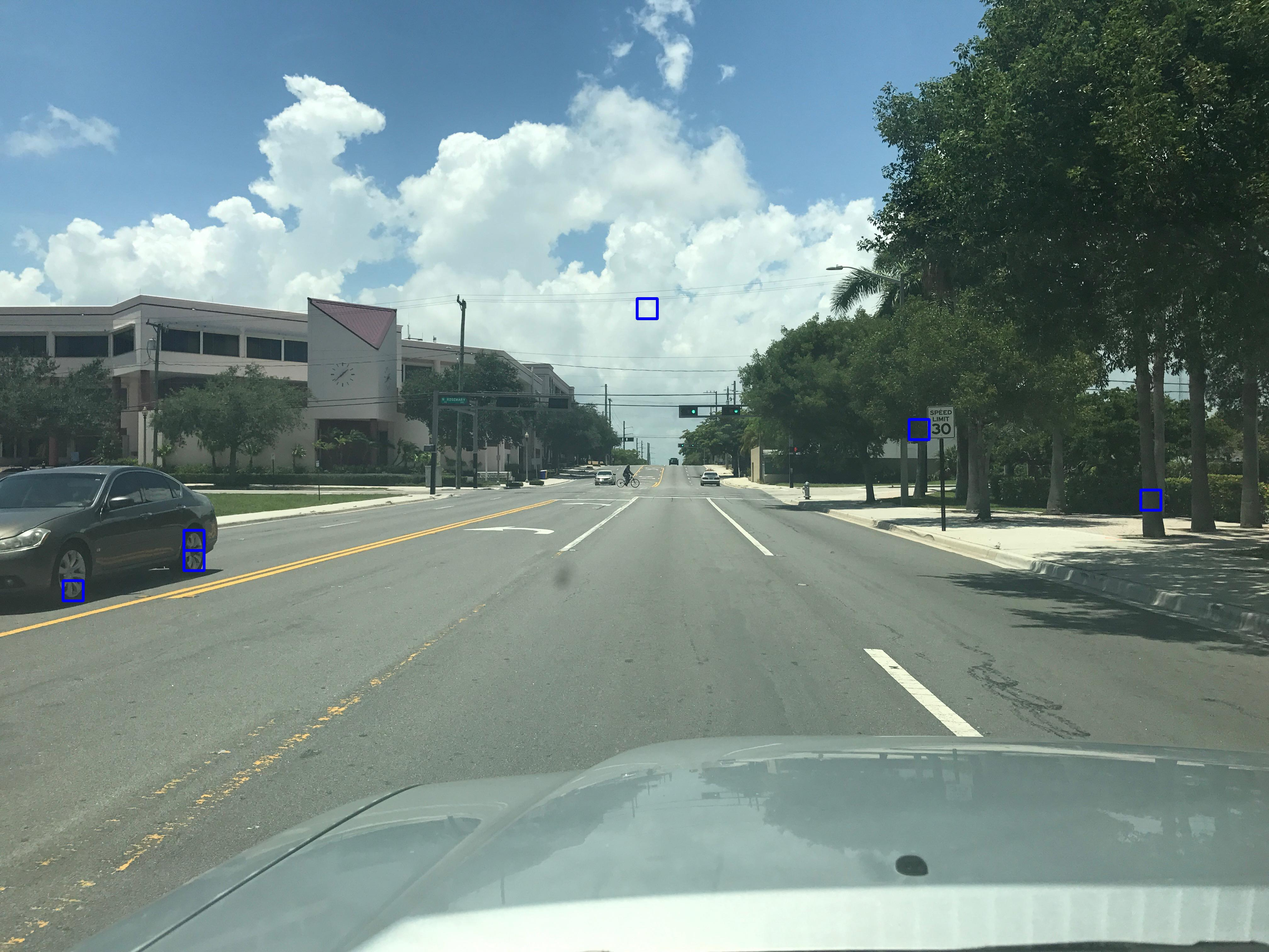
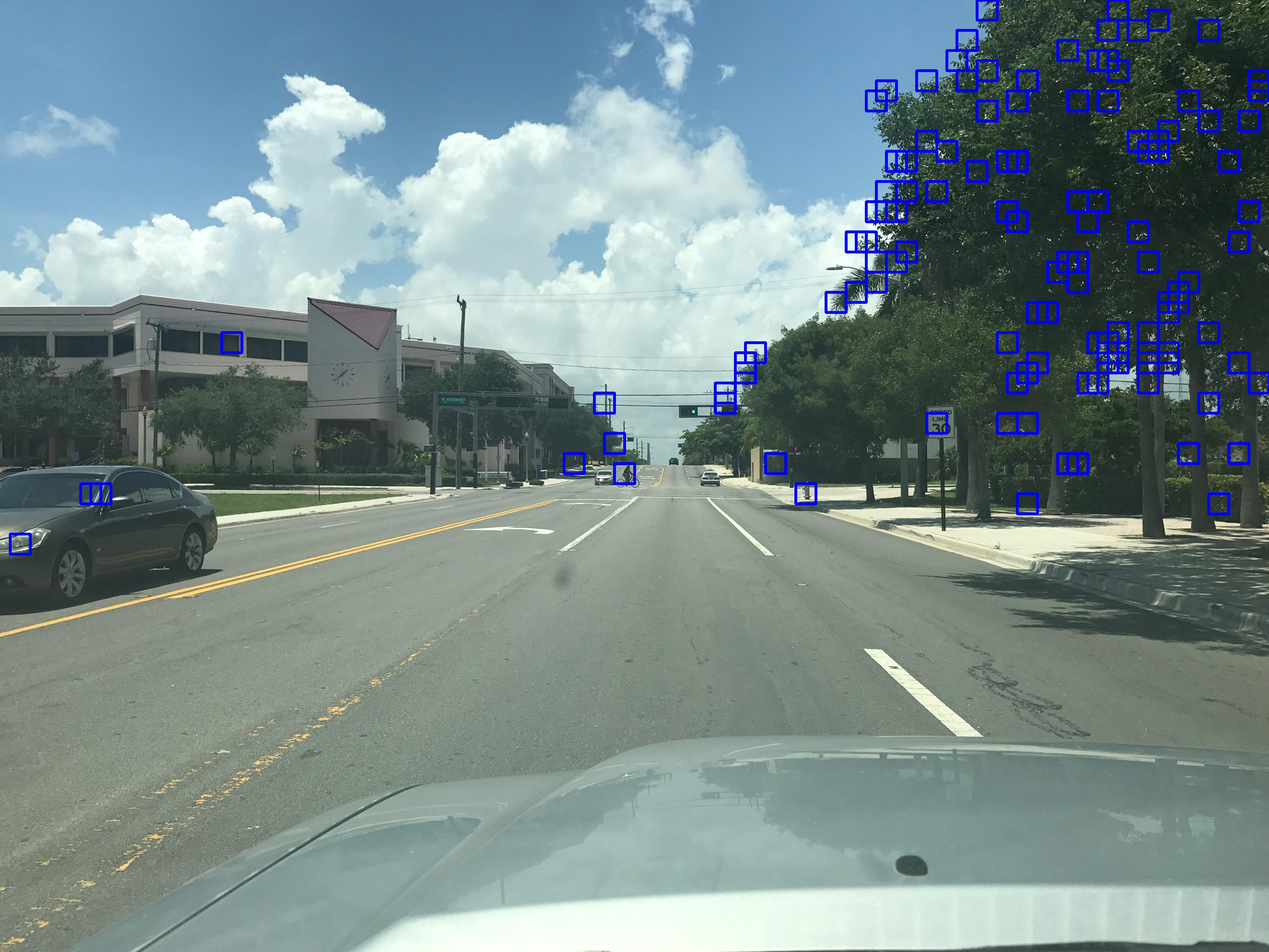
Added heatmap function to scanner

diff --git a/scanner.py b/scanner.py
@@ -89,71 +89,29 @@ class Scanner():
 
         predictions = self.predict(images)
         for num in range(len(predictions)):
+            startx = bboxes[num][0][0]
+            endx = bboxes[num][1][0]
+            starty = bboxes[num][0][1]
+            endy = bboxes[num][1][1]
+
             if(predictions[num] == 1):
-                cv2.rectangle(imcopy, bboxes[num][0], bboxes[num][1], color, thick)
-
-                # Locate box in black image which corresponds to predicted sign in original image
-                # and add one to the pixels
-                # heatmap[bboxes[num][0][1]:bboxes[num][1][1], bboxes[num][0][0]:bboxes[num][1][0]] += 1
-                #
-                # # Any pixels in the image smaller than 0 are clipped to 0
-                # # Any pixels in the image larger than 255 are clipped to 255
-                # heatmap = np.clip(heatmap, 0, 255)
-                #
-                #
-                # currentLabels = label(heatmap, structure=[[1, 1, 1],
-                #                                               [1, 1, 1],
-                #                                               [1, 1, 1]])
-                #
-                # heatMapInt = cv2.equalizeHist(heatmap.astype(np.uint8))
-                # heatColor = cv2.applyColorMap(heatMapInt, cv2.COLORMAP_JET)
-                # heatColor = cv2.cvtColor(heatColor, code=cv2.COLOR_BGR2RGB)
-                #
-                # for i in range(currentLabels[1]):
-                #     # nonzero() returns two arrays whose values represent the index of nonzero values in the initial array
-                #     # example: nparray.nonzero() => array[1 1 1, 2 2 2], array[0, 1, 2, 0, 1, 2] means there
-                #     # are nonzero values in indices [1,0],[1,1],[1,2] and so on...
-                #
-                #     # two arrays representing x coords and y coords of image features
-                #     nz = (currentLabels[0] == i + 1).nonzero()
-                #
-                #     # y coordinates
-                #     nzY = np.array(nz[0])
-                #
-                #     # x coordinates
-                #     nzX = np.array(nz[1])
-                #
-                #     # minimum and maximum values
-                #     tlX = np.min(nzX)
-                #     tlY = np.min(nzY)
-                #     brX = np.max(nzX)
-                #     brY = np.max(nzY)
-                #
-                #     vehicleBoxes.append([tlX, tlY, brX, brY])
-                #
-                # multi_boxes, _ = cv2.groupRectangles(rectList=np.array(vehicleBoxes).tolist(),
-                #                                groupThreshold=10, eps=.1)
-                #
-                # for one_box in multi_boxes:
-                #     one_box = np.array(one_box)
-                #     one_box = one_box.reshape(one_box.size)
-                #
-                #     cv2.rectangle(img=imcopy, pt1=(one_box[0], one_box[1]), pt2=(one_box[2], one_box[3]),
-                #                   color=color, thickness=thick)
-                    # Draw a rectangle given bbox coordinates
-                    #cv2.rectangle(imcopy, bbox[0], bbox[1], color, thick)
+                cv2.rectangle(imcopy, (startx, starty), (endx, endy), color, thick)
+                heatmap[starty:endy, startx:endx] += 1
         # Return the image copy with boxes drawn
-        return imcopy
+        return imcopy, heatmap
 
 
+    def add_heat(heatmap, bbox_list):
+        # Iterate through list of bboxes
+        for box in bbox_list:
+            # Add += 1 for all pixels inside each bbox
+            # Assuming each "box" takes the form ((x1, y1), (x2, y2))
+            heatmap[box[0][1]:box[1][1], box[0][0]:box[1][0]] += 1
+
+        # Return updated heatmap
+        return heatmap
 
 
-
-# crp = img[1570:1750, 1590:1740]
-# crp = img[1280:1440, 1270:1440] # sign
-# crp = img[1280:1440, 1290:1460]
-# plt.imshow(crp)
-# plt.show()
     def predict(self, images):
 
         my_images = []
@@ -161,58 +119,61 @@ class Scanner():
         for image in images:
             new_image = cv2.cvtColor(image, cv2.COLOR_BGR2RGB)
             image = cv2.resize(image, (IMG_SIZE,IMG_SIZE))
-            # for c in range(3):
-            #     image[:,:,c] = image[:,:,c] - np.mean(image[:,:,c])
-            gray = cv2.cvtColor(new_image, cv2.COLOR_RGB2GRAY)
-            blur = cv2.GaussianBlur(gray, (5,5), 20.0)
-            image = cv2.addWeighted(gray, 2, blur, -1, 0)
-            image = cv2.equalizeHist(image)
-            image = equalize_hist(image)
+            # # for c in range(3):
+            # #     image[:,:,c] = image[:,:,c] - np.mean(image[:,:,c])
+            # gray = cv2.cvtColor(new_image, cv2.COLOR_RGB2GRAY)
+            # blur = cv2.GaussianBlur(gray, (5,5), 20.0)
+            # image = cv2.addWeighted(gray, 2, blur, -1, 0)
+            # image = cv2.equalizeHist(image)
+            # image = equalize_hist(image)
             my_images.append(image)
 
         my_images = np.asarray(my_images)
-        my_images = np.reshape(my_images, (-1, IMG_SIZE, IMG_SIZE, 1))
-        my_labels = [1]
+        my_images = np.reshape(my_images, (-1, IMG_SIZE, IMG_SIZE, 3))
 
         print("predicting {} images...".format(len(images)))
         with tf.Session() as sess:
-            saver = tf.train.import_meta_graph('detection_net/model.meta')
-            saver.restore(sess, tf.train.latest_checkpoint('detection_net/.'))
+            saver = tf.train.import_meta_graph('color_net/model.meta')
+            saver.restore(sess, tf.train.latest_checkpoint('color_net/.'))
             graph = tf.get_default_graph()
-            print("Model restored...")
+            #print("Model restored...")
             x = graph.get_tensor_by_name("input_data:0")
-            print("x restored...")
+            #print("x restored...")
             keep_prob = graph.get_tensor_by_name("keep_prob:0")
-            print("keep_prob...")
+            #print("keep_prob...")
             prediction = graph.get_tensor_by_name("prediction:0")
-            print("prediction op restored...")
+            #print("prediction op restored...")
 
 
             sess.run(prediction, feed_dict={x: my_images, keep_prob: 1.})
-            print("prediction op finished...")
+            #print("prediction op finished...")
             predictions = (prediction.eval(feed_dict={x: my_images, keep_prob: 1.}))
-            print("predictions assigned...")
+            #print("predictions assigned...")
         print("DONE PREDICTING")
         return predictions
 
+
 # scan = Scanner()
-# for num in range(8):
-#     img = imread("test_imgs/test{}.jpg".format(num+1))
-#     windows = scan.slide_window(img, x_start_stop=[200, 3800], y_start_stop=[500, 2300], xy_window=(128, 128), xy_overlap=(0.5, 0.5))
-#     window_img = scan.draw_boxes(img, windows, color=(0, 0, 255), thick=6)
-#
-#     plt.imshow(window_img)
-#     plt.show()
+# for i in tqdm(range(10)):
+#     img = imread("test_imgs/test{}.jpg".format(i+1))
+#     windows = scan.slide_window(img, x_start_stop=[None, None], y_start_stop=[None, 2300], xy_window=(64, 64), xy_overlap=(0.5, 0.5))
+#     window_img = scan.draw_boxes(img, windows, color=(0, 0, 255), thick=8)
+#     now = datetime.datetime.now()
+#     d = now.day
+#     m = now.minute
+#     s = now.second
+#     imsave("outputImages/final_img_{}.jpg".format(i+1), window_img)
 
 scan = Scanner()
-for i in tqdm(range(10)):
-    img = imread("test_imgs/test{}.jpg".format(i+1))
-    windows = scan.slide_window(img, x_start_stop=[200, 3800], y_start_stop=[500, 2300], xy_window=(64, 64), xy_overlap=(0.5, 0.5))
-    window_img = scan.draw_boxes(img, windows, color=(0, 0, 255), thick=8)
-    now = datetime.datetime.now()
-    d = now.day
-    m = now.minute
-    s = now.second
-    imsave("outputImages/final_img_{}.jpg".format(i+1), window_img)
-# plt.imshow(window_img)
-# plt.show()
+img = imread("test_imgs/test10.jpg")
+windows = scan.slide_window(img, x_start_stop=[None, None], y_start_stop=[500, 2300], xy_window=(64, 64), xy_overlap=(0.5, 0.5))
+window_img, heatmap = scan.draw_boxes(img, windows, color=(0, 0, 255), thick=8)
+fig = plt.figure()
+plt.subplot(121)
+plt.imshow(window_img)
+plt.title('Sign Position')
+plt.subplot(122)
+plt.imshow(heatmap, cmap='hot')
+plt.title('Heat Map')
+fig.tight_layout()
+plt.show()

diff --git a/colorNet.py b/colorNet.py
@@ -71,15 +71,15 @@ print("Number of classes =", n_classes)
 #========PREPROCESSING==============
 #===================================
 def preprocess(X):
-    t = []
-    for i in range(0, len(X)):
-        gray = cv2.cvtColor(X[i], cv2.COLOR_RGB2GRAY)
-        blur = cv2.GaussianBlur(gray, (5,5), 20.0)
-        image = cv2.addWeighted(gray, 2, blur, -1, 0)
-        image = cv2.equalizeHist(image)
-        image = equalize_hist(image)
-        t.append(image)
-    X = np.reshape(t, (-1, 64, 64, 1))
+    # t = []
+    # for i in range(0, len(X)):
+    #     gray = cv2.cvtColor(X[i], cv2.COLOR_RGB2GRAY)
+    #     blur = cv2.GaussianBlur(gray, (5,5), 20.0)
+    #     image = cv2.addWeighted(gray, 2, blur, -1, 0)
+    #     image = cv2.equalizeHist(image)
+    #     image = equalize_hist(image)
+    #     t.append(image)
+    X = np.reshape(X, (-1, 64, 64, 3))
     print("Image Shape: {}".format(X.shape))
     return X
 
@@ -119,22 +119,22 @@ def LeNet(x):
     sigma = 0.1
 
     # TODO: Layer 1: Convolutional. Input = 64x64x1. Output = 64x64x6.
-    conv1_W = tf.Variable(tf.truncated_normal(shape=(5,5,1,6), mean = mu, stddev = sigma))
-    conv1_b = tf.Variable(tf.zeros(6))
+    conv1_W = tf.Variable(tf.truncated_normal(shape=(3,3,3,32), mean = mu, stddev = sigma))
+    conv1_b = tf.Variable(tf.zeros(32))
     conv1   = tf.nn.conv2d(x, conv1_W, strides = [1, 1, 1, 1], padding = 'SAME') + conv1_b
     regularizers = tf.nn.l2_loss(conv1_W)
 
     # TODO: Activation.
     conv1 = tf.nn.relu(conv1)
 
-    # TODO: Pooling. Input = 64x64x6. Output = 32x32x6.
+    # TODO: Pooling. Input = 64x64x6. Output = 32x32x8.
     conv1 = tf.nn.max_pool(conv1, ksize = [1, 2, 2, 1], strides = [1, 2, 2, 1], padding = 'SAME')
 
-    # TODO: Layer 2: Convolutional. Output = 32x32x16.
-    conv2_W = tf.Variable(tf.truncated_normal(shape=(5, 5, 6, 16), mean = mu, stddev = sigma))
-    conv2_b = tf.Variable(tf.zeros(16))
+    # TODO: Layer 1: Convolutional. Input = 32x32x8. Output = 32x32x16.
+    conv2_W = tf.Variable(tf.truncated_normal(shape=(3,3,32,64), mean = mu, stddev = sigma))
+    conv2_b = tf.Variable(tf.zeros(64))
     conv2   = tf.nn.conv2d(conv1, conv2_W, strides = [1, 1, 1, 1], padding = 'SAME') + conv2_b
-    regularizers += tf.nn.l2_loss(conv2_W)
+    regularizers = tf.nn.l2_loss(conv2_W)
 
     # TODO: Activation.
     conv2 = tf.nn.relu(conv2)
@@ -142,22 +142,34 @@ def LeNet(x):
     # TODO: Pooling. Input = 32x32x16. Output = 16x16x16.
     conv2 = tf.nn.max_pool(conv2, ksize = [1, 2, 2, 1], strides = [1, 2, 2, 1], padding = 'SAME')
 
-    # TODO: Flatten. Input = 16x16x16. Output = 4096.
-    fc0   = flatten(conv2)
-
-    # TODO: Layer 3: Fully Connected. Input = 4096. Output = 120.
-    fc1_W = tf.Variable(tf.truncated_normal(shape=(4096, 4096), mean = mu, stddev = sigma))
-    fc1_b = tf.Variable(tf.zeros(4096))
-    fc1   = tf.matmul(fc0, fc1_W) + fc1_b
-    regularizers += tf.nn.l2_loss(fc1_W)
+    # TODO: Layer 2: Convolutional. Output = 32x32x16.
+    conv3_W = tf.Variable(tf.truncated_normal(shape=(3, 3, 64, 128), mean = mu, stddev = sigma))
+    conv3_b = tf.Variable(tf.zeros(128))
+    conv3   = tf.nn.conv2d(conv2, conv3_W, strides = [1, 1, 1, 1], padding = 'SAME') + conv3_b
+    regularizers += tf.nn.l2_loss(conv3_W)
 
     # TODO: Activation.
-    fc1   = tf.nn.relu(fc1)
-    fc1   = tf.nn.dropout(fc1, keep_prob)
+    conv3 = tf.nn.relu(conv3)
+
+    # TODO: Pooling. Input = 32x32x16. Output = 16x16x16.
+    conv3 = tf.nn.max_pool(conv3, ksize = [1, 2, 2, 1], strides = [1, 2, 2, 1], padding = 'SAME')
+
+    # TODO: Flatten. Input = 16x16x16. Output = 4096.
+    fc1   = flatten(conv3)
+
+    # # TODO: Layer 3: Fully Connected. Input = 4096. Output = 120.
+    # fc1_W = tf.Variable(tf.truncated_normal(shape=(4096, 4096), mean = mu, stddev = sigma))
+    # fc1_b = tf.Variable(tf.zeros(4096))
+    # fc1   = tf.matmul(fc0, fc1_W) + fc1_b
+    # regularizers += tf.nn.l2_loss(fc1_W)
+    #
+    # # TODO: Activation.
+    # fc1   = tf.nn.relu(fc1)
+    # fc1   = tf.nn.dropout(fc1, keep_prob)
 
     # TODO: Layer 4: Fully Connected. Input = 120. Output = 84.
-    fc2_W = tf.Variable(tf.truncated_normal(shape=(4096,500), mean = mu, stddev = sigma))
-    fc2_b = tf.Variable(tf.zeros(500))
+    fc2_W = tf.Variable(tf.truncated_normal(shape=(8192,5000), mean = mu, stddev = sigma))
+    fc2_b = tf.Variable(tf.zeros(5000))
     fc2   = tf.matmul(fc1, fc2_W) + fc2_b
     regularizers += tf.nn.l2_loss(fc2_W)
 
@@ -166,7 +178,7 @@ def LeNet(x):
     fc2   = tf.nn.dropout(fc2, keep_prob)
 
     # TODO: Layer 5: Fully Connected. Input = 84. Output = 10.
-    fc3_W  = tf.Variable(tf.truncated_normal(shape=(500,2), mean = mu, stddev = sigma))
+    fc3_W  = tf.Variable(tf.truncated_normal(shape=(5000,2), mean = mu, stddev = sigma))
     fc3_b  = tf.Variable(tf.zeros(2))
     regularizers += tf.nn.l2_loss(fc3_W)
     logits = tf.matmul(fc2, fc3_W) + fc3_b
@@ -176,7 +188,7 @@ def LeNet(x):
 
 rate = 0.0008
 keep_prob = tf.placeholder(tf.float32, name="keep_prob") # probablity of keeping for dropout
-x = tf.placeholder(tf.float32, (None, 64, 64, 1), name="input_data")
+x = tf.placeholder(tf.float32, (None, 64, 64, 3), name="input_data")
 y = tf.placeholder(tf.int32, (None))
 one_hot_y = tf.one_hot(y, 2)
 
